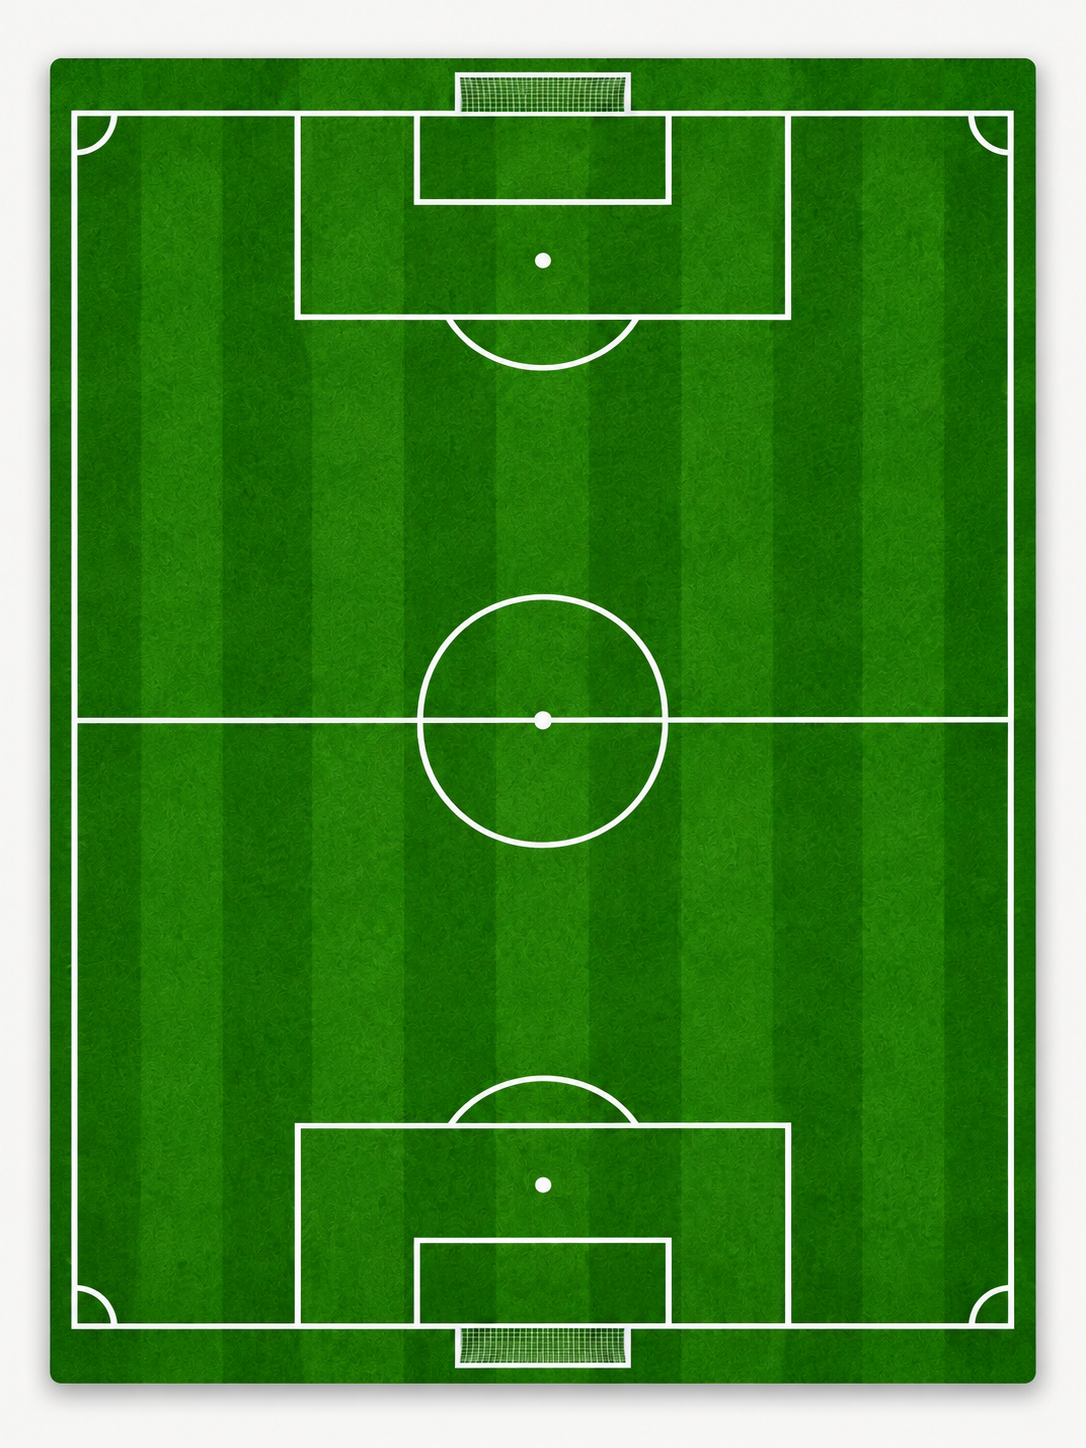
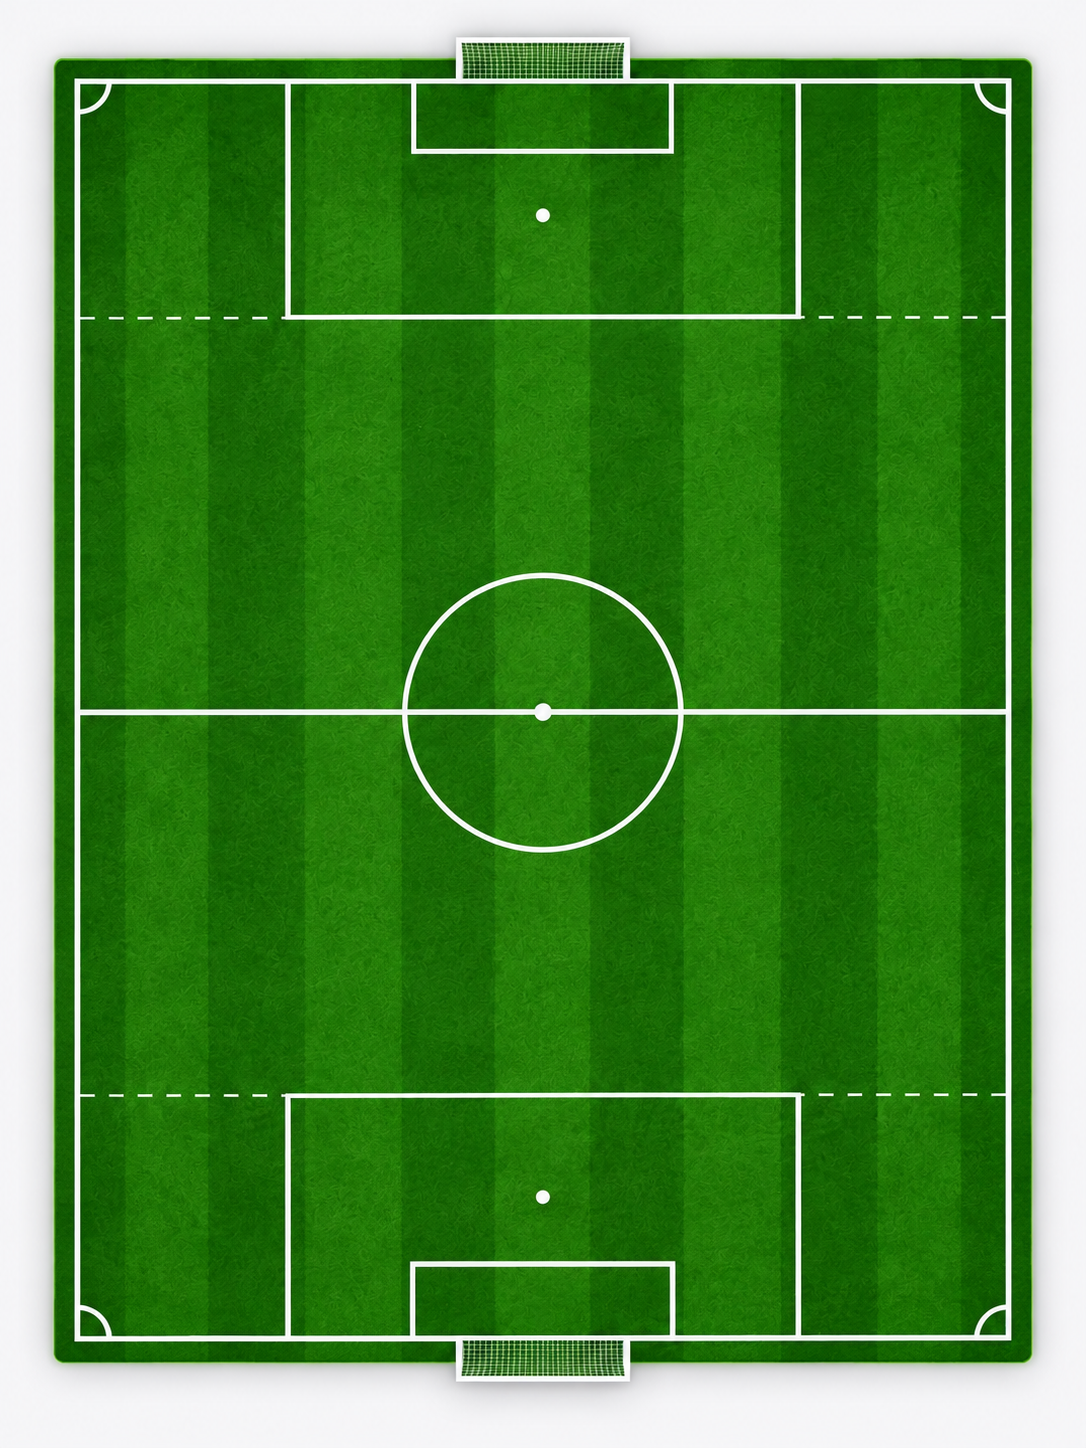
fix(coach): map pitch backgrounds by format

diff --git a/frontend/src/styles.css b/frontend/src/styles.css
@@ -851,7 +851,7 @@ small { color: var(--muted); }
 .hierarchy-list small { color: var(--muted); }
 .collective-layout textarea, .analytics-layout textarea { min-height: 190px; }
 .tactics-command { display: grid; grid-template-columns: minmax(480px, 600px) minmax(330px, 400px); align-items: start; gap: clamp(1rem, 1.8vw, 1.75rem); width: min(100%, 1060px); margin-inline: auto; }.tactics-command > .tactical-board { grid-column: 1; grid-row: 1 / span 2; }.tactics-command > .tactic-squad { grid-column: 2; }
-.tactical-board { display: grid; gap: .6rem; min-width: 0; }.tactical-pitch { position: relative; width: min(100%, clamp(347px, 48vh, 507px)); min-height: 0; margin-inline: auto; aspect-ratio: 2 / 3; overflow: hidden; border-color: #2c6b58; background: #1d741c var(--pitch-image, url('/brand/tactics/pitch-11v11.png')) center / cover no-repeat !important; }.tactical-pitch.format-11v11 { --pitch-image: url('/brand/tactics/pitch-11v11.png'); }.tactical-pitch.format-9v9 { --pitch-image: url('/brand/tactics/pitch-9v9.png'); }.tactical-pitch.format-8v8 { --pitch-image: url('/brand/tactics/pitch-8v8.png'); }
+.tactical-board { display: grid; gap: .6rem; min-width: 0; }.tactical-pitch { position: relative; width: min(100%, clamp(347px, 48vh, 507px)); min-height: 0; margin-inline: auto; aspect-ratio: 2 / 3; overflow: hidden; border-color: #2c6b58; background-color: #1d741c; background-position: center; background-size: cover; background-repeat: no-repeat; }.tactical-pitch.format-11v11 { background-image: url('/brand/tactics/pitch-11v11.png?v=2') !important; }.tactical-pitch.format-9v9 { background-image: url('/brand/tactics/pitch-9v9.png?v=2') !important; }.tactical-pitch.format-8v8 { background-image: url('/brand/tactics/pitch-8v8.png?v=2') !important; }
 .tactical-pitch::before { content: ''; position: absolute; z-index: 0; inset: 4%; border: 2px solid #c7dbc69c; background: linear-gradient(0deg, transparent 49.8%, #c7dbc69c 50%, transparent 50.2%); }
 .tactical-pitch::after { content: ''; position: absolute; z-index: 0; left: 40%; top: 40%; width: 20%; aspect-ratio: 1; border: 2px solid #c7dbc69c; border-radius: 50%; }
 .tactical-pitch::before, .tactical-pitch::after, .pitch-goal { display: none; }.pitch-goal { position: absolute; z-index: 1; left: 31%; width: 38%; height: 12%; border: 2px solid #c7dbc69c; pointer-events: none; }.pitch-goal::after { content: ''; position: absolute; left: 22%; width: 56%; height: 34%; border: 2px solid #c7dbc69c; }.pitch-goal-top { top: 4%; border-top: 0; }.pitch-goal-top::after { top: 0; border-top: 0; }.pitch-goal-bottom { bottom: 4%; border-bottom: 0; }.pitch-goal-bottom::after { bottom: 0; border-bottom: 0; }
